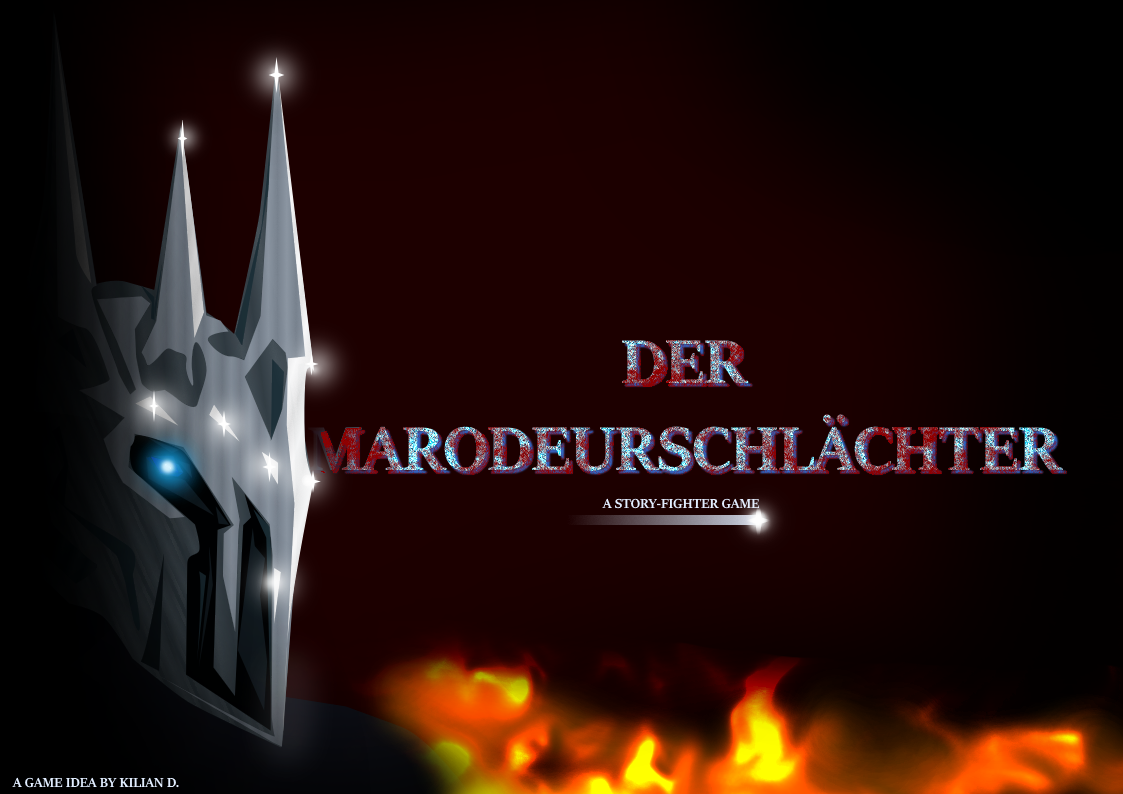
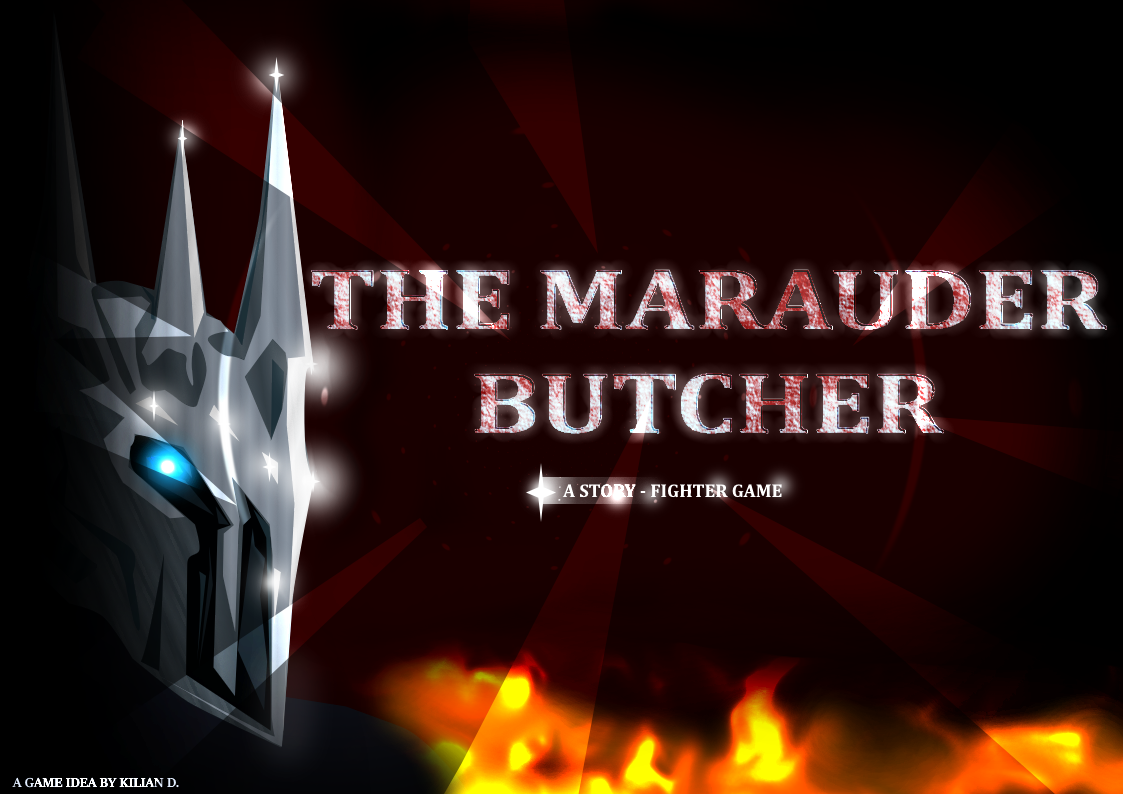
edit music and fixing deathscreen

diff --git a/modules/music.py b/modules/music.py
@@ -31,6 +31,18 @@ def play_menu_music():
     except Exception as e:
         print(f"Normal music error: {e}")
 
+def play_mid_fight_music():
+    global current_music
+    try:
+        path = os.path.join("src", "mid_fight_music.wav")
+        pygame.mixer.music.load(path)
+        pygame.mixer.music.set_volume(0.6)
+        pygame.mixer.music.play(-1)
+        current_music = "third_fight"
+        print(f"Playing third fight music: {path}")
+    except Exception as e:
+        print(f"Third fight music error: {e}")
+
 def stop_music():
     pygame.mixer.music.stop()
     current_music = None

diff --git a/main.py b/main.py
@@ -133,8 +133,7 @@ def fight_loop(player, enemy, fight_number):
 
         for event in pygame.event.get():
             if event.type == pygame.QUIT:
-                pygame.quit()
-                sys.exit()
+                return None  
 
         # Background
         if background_img:
@@ -185,7 +184,7 @@ def fight_loop(player, enemy, fight_number):
             elif keys[pygame.K_1]:
                 enemy.take_damage(100)
             elif keys[pygame.K_2]:
-                player.take_damage(666)
+                player.take_damage(666) # 👹
             elif keys[pygame.K_3]:
                 player.health = player.max_health
             elif keys[pygame.K_4]:
@@ -466,12 +465,14 @@ def main():
         if fight_number == 6:
             CutsceneManager.show(3)
             change_background(1)
+            play_mid_fight_music()
         elif fight_number == 11:
             CutsceneManager.show(4)
             change_background(2)
         elif fight_number == 16:
             CutsceneManager.show(5)
             change_background(3)
+            play_boss_music()
 
         # NOW start timing the fight
         enemy = create_enemy(fight_number)

diff --git a/menu.py b/menu.py
@@ -118,6 +118,7 @@ while running:
                 elif action == "guides":
                     guides()
                 elif action == "quit":
+                    
                     running = False
 
     pygame.display.flip()